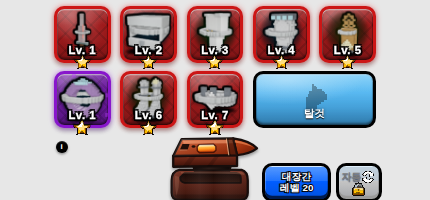
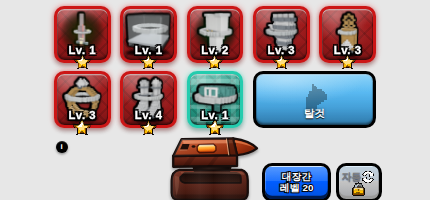
xmark 를 블록화로 되돌린다 — 계약이 요구한 건 화법 제외가 아니라 잘게 썬 격자였다
블라인드 비평가 A 가 라운드4 최악 5종에 xmark 를 올렸다("모서리가 둥글게 말린 벡터 X …
확대하면 계단이 단 한 칸도 안 나온다"). 제외(BLOCK_SKIP)는 그 종만 시트에서 이탈자로 튀게 한다.

`BLOCK_CELLS` 신설 — 종별 격자 칸수 override. xmark 는 20칸 → 40칸.
흰 속살이 캔버스의 0.505 × 0.573 이라 20칸에서는 10.1 과 11.5 가 둘 다 10칸으로 반올림돼
세로 초과 11% 가 지워졌는데(34×38 → 34×34), 40칸이면 20.2 → 20칸 · 22.9 → 23칸으로 남는다.
앞 주석이 "40칸급으로 올리면 나머지 131종의 블록감이 죽는다"고 적은 건 CELLS 를 전역으로
올리는 경우다 — 종별 override 는 그 131종을 안 지난다.
실측: probe-xmark-dom 4자리 전부 34×38 유지 · 폭 -0.35~-0.08%p · 높이 -0.25~+0.05%p PASS.

알(egg)도 같은 방법을 실제로 시험했고 **안 된다는 걸 확인해 소스에 음성 결과로 박았다**:
40칸 + LSTEP 9 + 키라인 끔 + 명도 바닥 0.17 이면 probe-egg-shade 가 6등급 중 5등급까지
통과하는데(터미네이터 89~101 · 크러시 0.0%), 그림은 여전히 매끈한 구 램프 + 드롭섀도라
비평가 지적이 하나도 안 닫힌다. 상수로는 못 푸는 갈림길이 맞다 — 사용자 결정 대기 유지.

검증(회귀 0): probe-icon-blockify · probe-icon-keyline 153/3(아바타만) · probe-cell-icon-size ·
probe-icon-cross-screen · probe-icon-light-frame · probe-emblem-core 미달 0종 · probe-egg-shade ·
probe-xmark-dom · probe-orb-face-flat · probe-screens-errors 31/31 콘솔 0 · node --check.

Claude-Session: https://claude.ai/code/session_01JQL4kUnspHbpojxvDwLZcY

diff --git a/web/js/icongen.js b/web/js/icongen.js
@@ -221,10 +221,10 @@ const IconGen = {
      *    높이 비 −2.62%p 로 게이트를 깬다. **알파 문턱(COVER)이나 키라인 문턱(KEYL)으로는 못 고친다**
      *    (0.28~0.46 · 0.16~0.26 전 구간에서 34×34 로 같았다 — 반올림이지 문턱이 아니다).
      *    ⚠ 그렇다고 원본 좌표(WX·WY)를 키워 보정하지 말 것 — 조형이 격자 칸수에 종속돼 `CELLS` 를
-     *    건드리는 순간 조용히 깨진다. 애초에 이 글리프는 **곧은 대각 두 획 + 검정 테**라 블록 언어와
-     *    이미 같은 말을 한다(17px 로 표시되면 블록화 전후가 눈으로 구분되지 않는다) — 잃는 게 없다.
-     *    다시 넣으려면 격자를 이 계약이 표현되는 칸수(세로 초과 11% 를 담으려면 최소 40칸급)로
-     *    올려야 하는데, 그러면 나머지 131종의 '블록으로 읽히는' 성질이 먼저 죽는다.
+     *    건드리는 순간 조용히 깨진다.
+     *    ✅ **해결됨(2026-08-25 라운드4) — `BLOCK_CELLS.xmark = 40` 으로 돌아왔다.** 위 문단이
+     *    "40칸급으로 올리면 나머지 131종이 먼저 죽는다"고 적은 건 `CELLS` 를 **전역으로** 올리는
+     *    경우고, 종별 override 는 그 131종을 안 건드린다. 아래 `BLOCK_CELLS` 주석 참조.
      * 🚨 `dg_`(던전 배너)는 여기서 **뺐다**(2026-08-25 라운드2). '아이콘이 아니라 302px 일러스트'라
      *    제외했는데, 블라인드 비평가 2인이 라운드1에서 **둘 다 1순위 감점**으로 지목했다 — 같은 UI 에
      *    섞여 나오는데 혼자 그라디언트 하늘을 깔고 있어 "스크린샷처럼 튄다". 칸수는 `gx = CELLS·(W/H)`
@@ -244,8 +244,31 @@ const IconGen = {
      *    150종의 '블록으로 읽히는' 성질이 죽는다. 지금은 **이미 판정기가 있는 쪽(egg-shade)을
      *    살리고** 블록화를 뺐다 — 블라인드 비평가들이 3라운드 내내 알을 "에어브러시"로 지목했으므로
      *    **사용자가 '알도 네모로'라고 정하면** 그때 `probe-egg-shade` 를 폐기하고 알을 면 분할로
-     *    다시 그려야 한다(TODO 의 `ui-icon-blockify` 블록에 이 갈림길을 적어 뒀다). */
-    BLOCK_SKIP: ['avatar_', 'xmark', 'egg'],
+     *    다시 그려야 한다(TODO 의 `ui-icon-blockify` 블록에 이 갈림길을 적어 뒀다).
+     *    🔬 **음성 결과 — `xmark` 처럼 '칸만 잘게'로는 안 풀린다(2026-08-25 라운드4에서 실제로 해 봄).**
+     *    알을 `BLOCK_CELLS 40` + LSTEP 9 + 키라인 끔 + 명도 바닥 0.17 로 블록화하니 `probe-egg-shade`
+     *    는 **6등급 중 5등급까지 통과**했다(터미네이터 89~101, 게이트 60 — 크러시도 0.0%.
+     *    남은 건 신화 #aa1cff 2.5% 뿐이고 이건 채도 높은 보라라 HSL 바닥이 루마 바닥이 아니어서다).
+     *    **그런데 그림은 지적을 하나도 안 닫는다** — 확대해 보면 여전히 매끈한 구 램프 + 드롭섀도이고,
+     *    바뀐 건 안티에일리어싱이 사라진 것뿐이다. 즉 상수로는 못 푼다: 비평가가 요구하는 건
+     *    '칸 경계'가 아니라 **면 분할**이고, 그건 `draw.egg` 를 다시 그려야 나온다.
+     *    👉 다음 세션은 이 실험을 되풀이하지 말 것. 갈림길은 그대로 사용자 결정 대기다. */
+    BLOCK_SKIP: ['avatar_', 'egg'],
+    /* 🚨 **격자만 더 잘게 주면 되는 종** — 제외(BLOCK_SKIP)와 다르다. 제외는 화법을 통째로 빼서
+     *    그 종만 시트에서 '에어브러시 이탈자'로 튀는데(블라인드 비평가 라운드4 A 가 `xmark` 를
+     *    최악 5종에 올렸다: "모서리가 둥글게 말린 벡터 X … 계단이 단 한 칸도 안 나온다"),
+     *    **계약이 요구하는 건 화법을 빼는 게 아니라 칸을 잘게 하는 것**이었다.
+     *  · `xmark` 20칸 → **40칸**: 흰 속살이 캔버스의 0.505 × 0.573 이고 그 세로 초과 11% 를
+     *    `probe-xmark-dom` 이 ±2%p 로 문다. 20칸에서는 10.1 과 11.5 가 **둘 다 10칸으로** 반올림돼
+     *    그 11% 가 통째로 지워졌다(34×38 → 34×34). 40칸이면 20.2 → 20칸 · 22.9 → 23칸이라
+     *    비가 1:1.15 로 남는다(계약 1:1.135 대비 폭 −0.5%p · 높이 +0.2%p = 여유 충분).
+     *    ⚠ 앞 세션 주석이 "격자를 40칸급으로 올리면 나머지 131종의 블록감이 죽는다"고 적은 건
+     *       `CELLS` 를 **전역으로** 올리는 경우다 — 종별 override 는 그 131종을 안 건드린다. */
+    BLOCK_CELLS: { xmark: 40 },
+    _blockCells(name) {
+        for (const k in this.BLOCK_CELLS) if (name.indexOf(k) === 0) return this.BLOCK_CELLS[k];
+        return 0;
+    },
     _blockSkip(name) {
         for (const p of this.BLOCK_SKIP) if (name.indexOf(p) === 0) return true;
         return false;
@@ -350,9 +373,9 @@ const IconGen = {
     /* 큰 캔버스 → 블록화된 출력 캔버스(W×H). 색조(H)는 절대 안 건드린다 —
      * 코인 주황·젬 진홍처럼 **종을 알아보는 단서가 색조**라, 색조까지 양자화하면 종이 뒤집힌다
      * (탈것 candy 재배정이 폐기된 것과 같은 사유). 제한 팔레트는 S·L 단계로만 낸다. */
-    _blockify(src, W, H) {
+    _blockify(src, W, H, cells) {
         const B = this.BLOCK;
-        const gy = B.CELLS, gx = Math.max(1, Math.round(B.CELLS * (W / H)));
+        const gy = cells || B.CELLS, gx = Math.max(1, Math.round(gy * (W / H)));
         const sm = document.createElement('canvas');
         sm.width = gx; sm.height = gy;
         const sc = sm.getContext('2d');
@@ -437,7 +460,7 @@ const IconGen = {
         const src = ow ? this._outlined(big, ow * S * SS) : big;
         const W = Math.round(S * AR);
         // 블록화(`ui-icon-blockify`)가 축소까지 함께 한다 — 칸 평균이 곧 슈퍼샘플이라 별도 축소 불필요.
-        if (!this._blockSkip(name)) return (this.cache[key] = this._blockify(src, W, S).toDataURL('image/png'));
+        if (!this._blockSkip(name)) return (this.cache[key] = this._blockify(src, W, S, this._blockCells(name)).toDataURL('image/png'));
         const cv = document.createElement('canvas');
         cv.height = S;
         cv.width = W;
